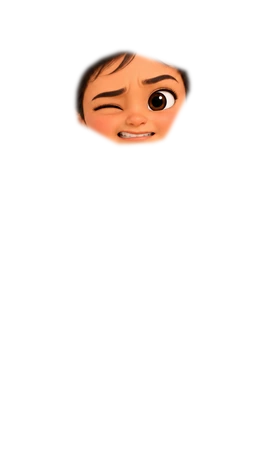
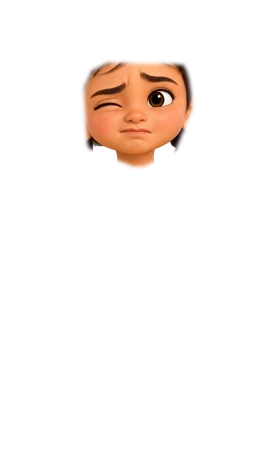
S03-D: cut and wire the s03 art: sekelo served dish (B1), matte daar bowl on its trivet (C10), lengthwise two-colour plasters (E2), kadchi ladle (DAAR-02), potato not butter (ART-11), the girl's hot/cold/sore/happy faces from one body (CLN-65), review tick defringed (ART-16)
Claude-Session: https://claude.ai/code/session_01GsS5kQU7EuaP5x8MwTqpvt

Changed region(s): [[0.2618, 0.089, 0.7273, 0.3559]]

diff --git a/js/cook/stations/daar.js b/js/cook/stations/daar.js
@@ -89,17 +89,19 @@ import { setTimeout, clearTimeout, setInterval, clearInterval, requestAnimationF
   // the served bowl on its trivet (528 x 563; its round body, trivet and all: r 0.4833 of w) and the ladle
   // (290 x 455, top-down, the handle rising: its bowl's centre and radius)
   const TRIVET = { w: 528, h: 563, cx: 0.4928, cy: 0.4987, r: 0.4833 };
-  // 30 Sept (R3): ladle-v2, a deep steel dipper seen three-quarter on (its bowl: the biggest circle inside it)
-  const LADLE = { w: 833, h: 1039, cx: 0.3697, cy: 0.7016, r: 0.3501 };
+  // S03-D (DAAR-02): ladle-v3, a real kadchi from above (a deep round bowl, a flat strap handle rising to the upper
+  // right); its bowl: the biggest circle inside it, measured on the cut
+  const LADLE = { w: 469, h: 512, cx: 0.2217, cy: 0.7949, r: 0.1843 };
   // (R4 cell 6) the same bowl of plain daar, no tadka: it waits beside the pot and pours in (the tadka one is the review's)
-  const TRIVET_PLAIN = { w: 489, h: 490, cx: 0.4991, cy: 0.4971, r: 0.4619 };
+  // S03-D (C10): the s03 bowl (matte daar) on trivet-t, one canvas with daar-bowl-plain-t (build/gen_s03.py --fit)
+  const TRIVET_PLAIN = { w: 489, h: 490, cx: 0.4991, cy: 0.4971, r: 0.4899 };
   // (R8) the speed dial's four flat cream icons: stopped, slow (tortoise), fast (hare), too fast (a splash)
   const DIAL_ICONS = ["stopped", "slow", "fast", "spill"];
   // DAAR-13: the margin-safe knife's edge, tip to heel, as fractions of tool-knife-t.png (345 x 296)
   const KNIFE_BLADE = [0.07, 0.08, 0.5, 0.64];
-  // DAAR-11 (D6): the ladle's handle leaves its bowl about 57 degrees above the right (ladle-v2.webp); turned so it
+  // DAAR-11 (D6): the ladle's handle leaves its bowl about 48 degrees above the right (ladle-v3.webp); turned so it
   // always points out to the rim, hooked over it, as the ladle goes round
-  const LADLE_HANDLE = (-57 * Math.PI) / 180;
+  const LADLE_HANDLE = (-48 * Math.PI) / 180;
   /*
    * Where the chopped pieces wait (D4, Q4: "in bowls, or on the counter at the top right: try it and judge").
    * "counter": one small pile per piece, a row per vegetable, straight on the counter (chosen: it can be
@@ -157,8 +159,8 @@ import { setTimeout, clearTimeout, setInterval, clearInterval, requestAnimationF
     const art = [
       ["dv2-knife", IT + "tool-knife-t.png"], // DAAR-13: the margin-safe cut (the webp touched its canvas edge: the tip was clipped)
       ["dv3-trivet", V3 + "daar-bowl-trivet.webp"],
-      ["dv3-ladle", V3 + "ladle-v2.webp"],
-      ["dv3-trivet-plain", V3 + "daar-bowl-trivet-plain.webp"],
+      ["dv3-ladle", V3 + "ladle-v3.webp"],
+      ["dv3-trivet-plain", V3 + "daar-bowl-trivet-plain-v2.webp"],
       ["dv3-vegbowl", V3 + "veg-bowl.webp"],
     ]
       .concat(POTS.map((st) => [`dv3-pot-${st}`, `${V3}pot-${st}.webp`]))

diff --git a/js/cook/flow.js b/js/cook/flow.js
@@ -701,7 +701,7 @@ import { setTimeout, clearTimeout, setInterval, clearInterval, requestAnimationF
       const y = tray.y - 4;
       if (d.recipe === "chai" && Cook.Art.servedArt("chai") && s.textures.exists(Cook.Art.servedKey("chai"))) {
         for (let c = 0; c < d.count; c++) servedPic(s, servedRecipe(d, c), px + c * 56 - (d.count - 1) * 28, tray, c, (tray.w * 0.92) / Math.max(1, n));
-      } else if (d.recipe !== "chai" && d.recipe !== "mishkaki" && servedPic(s, servedRecipe(d), px, tray, i, (tray.w * 0.92) / Math.max(1, n)));
+      } else if (d.recipe !== "chai" && servedPic(s, servedRecipe(d), px, tray, i, (tray.w * 0.92) / Math.max(1, n)));
       else if (d.recipe === "chai") for (let c = 0; c < d.count; c++) s.prop("glass-chai", px + c * 50 - (d.count - 1) * 25, y, 100, 130, { depth: Cook.D.occ + 2 });
       else if (d.recipe === "maani") {
         s.prop("thali", px, y, 210, 110, { depth: Cook.D.occ + 2 });

diff --git a/build/gen_s03.py b/build/gen_s03.py
@@ -9,6 +9,8 @@ The spend is logged from the API's usage to sources/art/s03/cost.json; the run s
   python3 build/gen_s03.py --dry                       # the estimate
   python3 build/gen_s03.py                             # try 1 of every image not yet drawn
   python3 build/gen_s03.py --only G1 --try 2 --prompt-file p.txt   # a redo with Fable's amended prompt
+  python3 build/tools/art/artcut.py build/tools/art/specs/s03.cut.json --out DIR && python3 build/gen_s03.py --fit DIR
+  python3 build/gen_s03.py --defringe assets/ui/results/tick-gold.webp   # ART-16
 """
 import argparse
 import base64
@@ -78,7 +80,8 @@ JOBS = {
            'Row 1, left to right: (1) top red, bottom yellow; (2) top red, bottom blue; (3) top red, bottom green. '
            'Row 2, left to right: (4) top yellow, bottom blue; (5) top yellow, bottom green; (6) top blue, bottom green. '
            'Colours exactly as the attached plasters: bright red, bright yellow, bright blue, bright green. ' + GROUND + ' ' + STYLE + ' ' + NEG),
-    'S4': ('1024x1024', [ANCHOR, A('assets/cook/items/v3/daar/pot-daar.webp'), A('assets/cook/items/v3/daar/ladle-v2.webp')], None,
+    # S4: try 3 on drops ladle-v2.webp (Fable: the old dipper anchored the shape)
+    'S4': ('1024x1024', [ANCHOR, A('assets/cook/items/v3/daar/pot-daar.webp')], None,
            'One Indian stainless-steel kadchi (a serving ladle for daar) for a children\'s cooking game, seen from directly '
            'above as it stands in a pot of daar: its deep, round, hemispherical bowl is at the LOWER LEFT, seen from above as '
            'a perfect circle with its polished inside showing, about 34% of the image width; its long, slim, flat steel '
@@ -172,13 +175,105 @@ def draw(n, tr, prompt, key):
     return n, tr, path, body.get('usage') or {}, None
 
 
+def _bbox(im):
+    return im.getchannel('A').point(lambda v: 255 if v > 24 else 0).getbbox()
+
+
+def _place(piece, canvas, box, q=90):
+    """The piece's visible part scaled into box (x0, y0, x1, y1, keeping its aspect, centred) on a clear canvas."""
+    pb = piece.crop(_bbox(piece))
+    bw, bh = box[2] - box[0], box[3] - box[1]
+    s = min(bw / pb.width, bh / pb.height)
+    pb = pb.resize((max(1, round(pb.width * s)), max(1, round(pb.height * s))), Image.LANCZOS)
+    cv = Image.new('RGBA', canvas, (0, 0, 0, 0))
+    cv.alpha_composite(pb, (round(box[0] + (bw - pb.width) / 2), round(box[1] + (bh - pb.height) / 2)))
+    return cv
+
+
+def defringe(path, px=2):
+    """A cut's rim takes the colour of the nearest solid inside pixel (no grey in the antialiasing), alpha pulled in a
+    pixel and re-softened (ART-16: the review tick)."""
+    import numpy as np
+    from scipy import ndimage as ndi
+    im = np.asarray(Image.open(path).convert('RGBA')).astype(float)
+    a = im[..., 3] / 255
+    solid = ndi.binary_erosion(a > 0.98, iterations=px + 1)
+    _, (iy, ix) = ndi.distance_transform_edt(~solid, return_indices=True)
+    rgb = im[..., :3].copy()
+    rim = ~solid & (a > 0)
+    rgb[rim] = im[..., :3][iy[rim], ix[rim]]
+    na = ndi.gaussian_filter(ndi.binary_erosion(a > 0.5, iterations=1).astype(float), 0.8) * a
+    Image.fromarray(np.dstack([rgb, np.clip(na * 255, 0, 255)]).astype(np.uint8), 'RGBA').save(path, 'WEBP', quality=92, method=6)
+
+
+def fit(stage):
+    """Place the staged cuts (artcut.py s03.cut.json --out <dir>; <dir>/stage) on the game's canvases. Prints the
+    measurements the data and code hookups need."""
+    st = lambda n: Image.open(os.path.join(stage, n)).convert('RGBA')
+    save = lambda im, rel, q=90: (im.save(A(rel), 'WEBP', quality=q, method=6), print('  wrote', rel, im.size))
+    # S1: the sekelo dish beside B1's (300 px on its long side, 10 px pad)
+    p = st('sekelo.webp')
+    p = p.crop(_bbox(p))
+    s = 280 / max(p.size)
+    p = p.resize((round(p.width * s), round(p.height * s)), Image.LANCZOS)
+    cv = Image.new('RGBA', (p.width + 20, p.height + 20), (0, 0, 0, 0))
+    cv.alpha_composite(p, (10, 10))
+    save(cv, 'assets/cook/items/served/sekelo.webp')
+    # S2: the bowl alone and the bowl on the trivet, on one canvas (daar.js TRIVET_PLAIN: 489 x 490); the bowl's rim
+    # at daar.js BOWL_IN (0.39 of the width from the centre); the trivet as trivet-t fills its canvas
+    W, H = 489, 490
+    cx, cy = W * 0.4991, H * 0.4971
+    tri = Image.open(A('assets/cook/items/v3/daar/trivet-t.webp')).convert('RGBA')
+    tb = _bbox(tri)
+    tr = max(tb[2] - tb[0], tb[3] - tb[1]) / 2
+    rt = min(cx, cy) - 4  # the trivet's radius on this canvas
+    tri = tri.crop(tb).resize((round(rt * 2), round(rt * 2)), Image.LANCZOS)
+    rb = 0.39 * W
+    bowl = _place(st('daar-bowl.webp'), (W, H), (cx - rb, cy - rb, cx + rb, cy + rb))
+    save(bowl, 'assets/cook/items/v3/daar/daar-bowl-plain-t.webp')
+    both = Image.new('RGBA', (W, H), (0, 0, 0, 0))
+    both.alpha_composite(tri, (round(cx - rt), round(cy - rt)))
+    both.alpha_composite(bowl)
+    save(both, 'assets/cook/items/v3/daar/daar-bowl-trivet-plain-v2.webp')
+    print('  TRIVET_PLAIN r = %.4f (trivet radius / width)' % (rt / W))
+    # S3: the two-colour plasters on the one-colour ones' canvas (256 x 129, the strip in the same box)
+    ref = Image.open(A('assets/clinic/sheets/plaster-flat/plaster-flat-red.webp')).convert('RGBA')
+    rb_ = _bbox(ref)
+    for n in ['red-yellow', 'red-blue', 'red-green', 'yellow-blue', 'yellow-green', 'blue-green']:
+        save(_place(st('plaster-flat-%s.webp' % n), ref.size, rb_), 'assets/clinic/sheets/plaster-flat/plaster-flat-%s.webp' % n)
+    # S5: the potato on the sekelo pieces' canvases, the visible box the old potato's (one size across raw/grilled/charred)
+    for n in ['potato-raw', 'potato-grilled', 'potato-charred', 'heap-potato']:
+        old = Image.open(A('assets/cook/items/v3/sekelo/%s.webp' % n)).convert('RGBA')
+        save(_place(st(n + '.webp'), old.size, _bbox(old)), 'assets/cook/items/v3/sekelo/%s.webp' % n)
+    # S4: the kadchi, trimmed with a 16 px pad at most 512 px; its bowl (the darkest-rimmed circle) measured by hand
+    p = st('ladle.webp')
+    p = p.crop(_bbox(p))
+    s = min(1, 480 / max(p.size))
+    p = p.resize((round(p.width * s), round(p.height * s)), Image.LANCZOS)
+    cv = Image.new('RGBA', (p.width + 32, p.height + 32), (0, 0, 0, 0))
+    cv.alpha_composite(p, (16, 16))
+    save(cv, 'assets/cook/items/v3/daar/ladle-v3.webp')
+    # G1-G4: the girl's face layers and corner heads (the cut's canvas is girl-front's own)
+    gd = os.path.join(stage, 'girl')
+    for f in ['hot', 'cold', 'pain', 'happy']:
+        for n in ['girl-face-%s.webp' % f, 'girl-face-%s@2x.webp' % f, 'girl-head-%s.webp' % f]:
+            Image.open(os.path.join(gd, n)).save(A('assets/clinic/patients/girl', n), 'WEBP', quality=92, method=6)
+            print('  wrote assets/clinic/patients/girl/' + n)
+
+
 def main():
     ap = argparse.ArgumentParser()
     ap.add_argument('--dry', action='store_true')
     ap.add_argument('--only', default='')
     ap.add_argument('--try', dest='tr', type=int, default=1)
     ap.add_argument('--prompt-file', default='')
+    ap.add_argument('--fit', help='place the staged cut (artcut --out DIR): DIR/stage')
+    ap.add_argument('--defringe', nargs='*', help='clean the rim of these cut webps (ART-16)')
     a = ap.parse_args()
+    if a.fit:
+        return fit(os.path.join(a.fit, 'stage'))
+    if a.defringe:
+        return [defringe(A(f)) or print('  defringed', f) for f in a.defringe]
     os.makedirs(OUT, exist_ok=True)
     log_path = os.path.join(OUT, 'cost.json')
     log = json.load(open(log_path)) if os.path.exists(log_path) else {'model': MODEL, 'calls': []}
